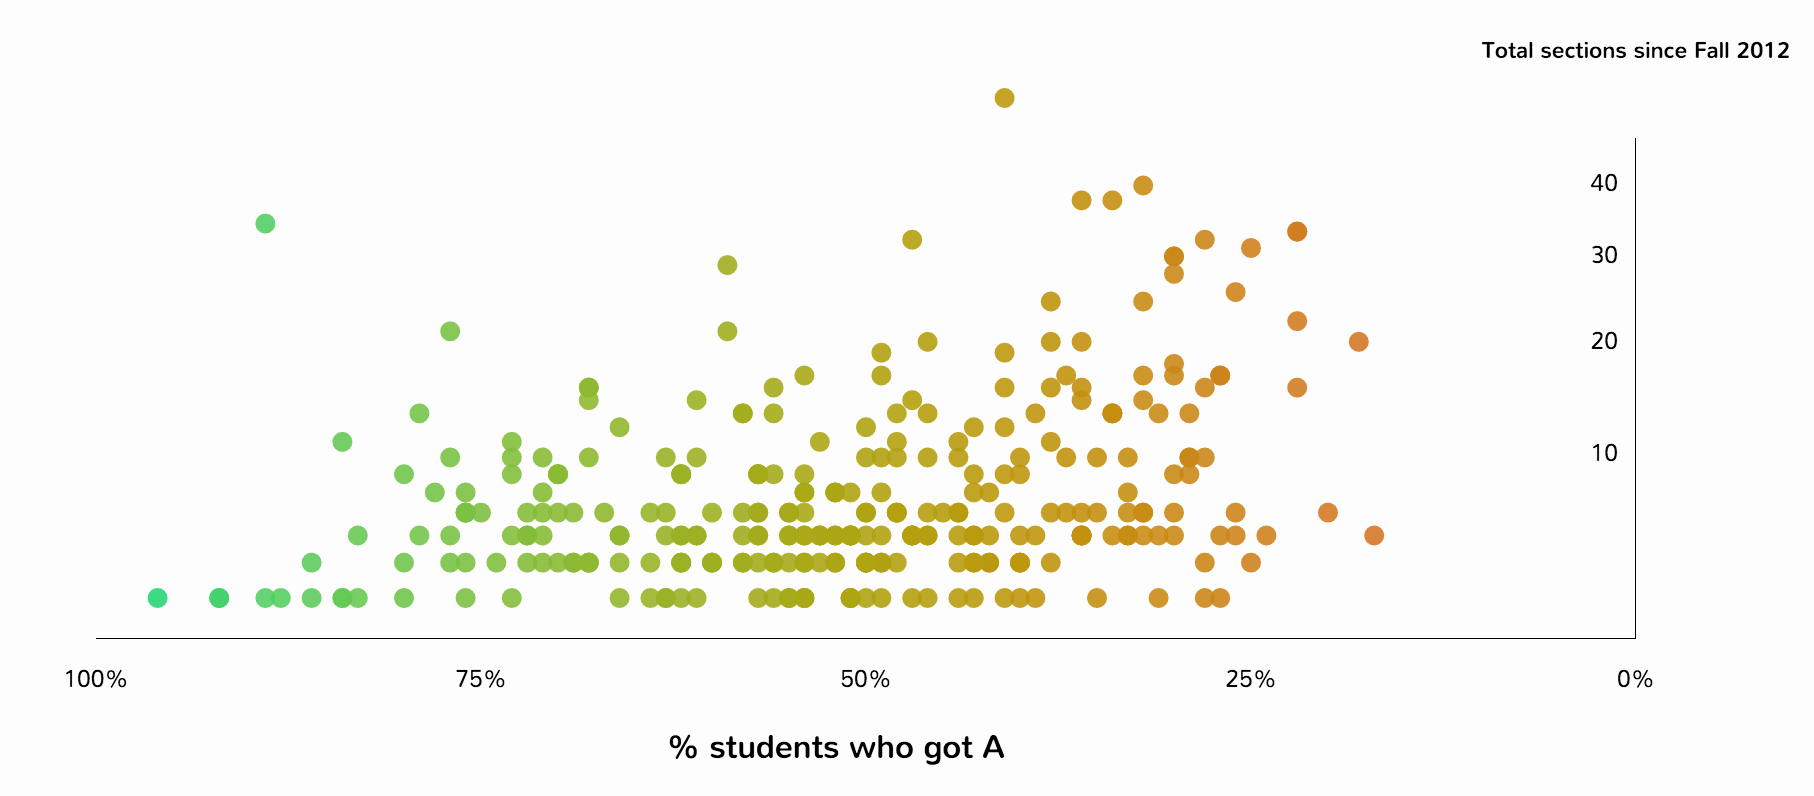
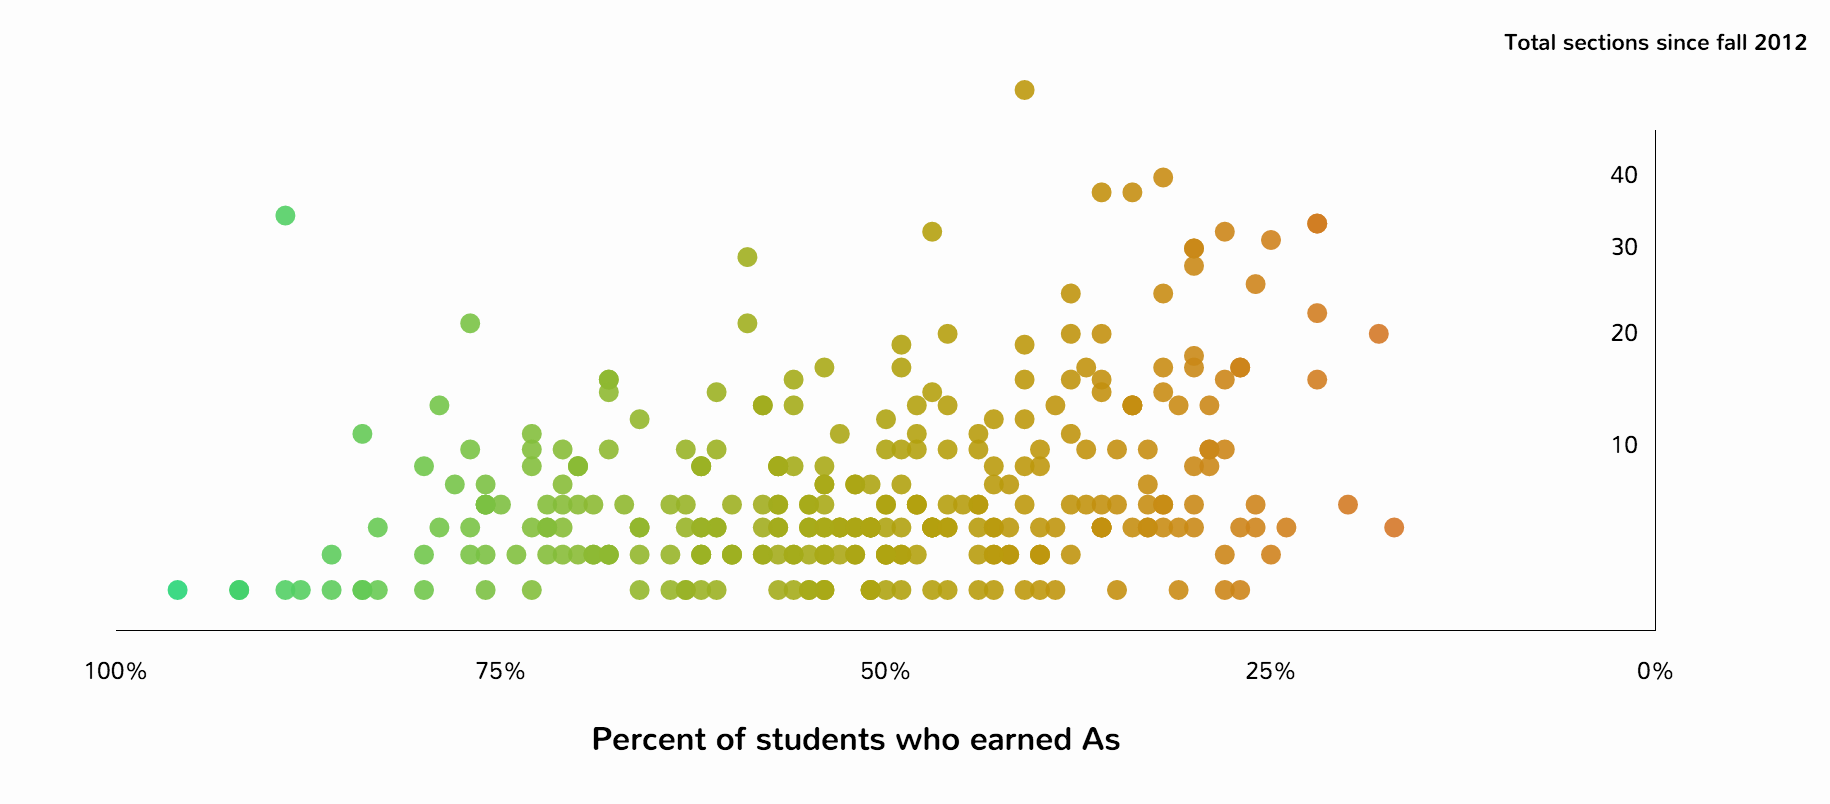
Added Michelle's suggested edits; paginated tables

diff --git a/js/posts/grades-ge/highchart-bar.js b/js/posts/grades-ge/highchart-bar.js
@@ -9,13 +9,13 @@ $(function () {
 
       xAxis: {
           categories: [
-              "Visual and Performance Arts",
-              "Literary and Cultural",
+              "Visual and performance Arts",
+              "Literary and cultural",
               "Historical",
               "Social",
-              "Philosophical and Linguistic",
-              "Life Sciences",
-              "Physical Sciences" ]
+              "Philosophical and linguistic",
+              "Life sciences",
+              "Physical sciences" ]
       },
       yAxis: {
           min: 0,

diff --git a/js/posts/grades-ge/d3-scatter.js b/js/posts/grades-ge/d3-scatter.js
@@ -102,13 +102,13 @@ function chart(allGrades) {
       .attr("text-anchor", "middle")
       .attr("transform", "translate(800, 150)")
       .attr("class", "labelsY")
-      .text("Total sections since Fall 2012");
+      .text("Total sections since fall 2012");
 
   d3.select("svg#chart").append("text")
       .attr("text-anchor", "middle")
       .attr("transform", "translate(400, 500)")
       .attr("class", "labelsX")
-      .text("Percent students who earned As");
+      .text("Percent of students who earned As");
 
 
   function pickTheme(theme) {

diff --git a/js/posts/grades-ge/DT-tables.js b/js/posts/grades-ge/DT-tables.js
@@ -10,7 +10,7 @@ $(document).ready(function() {
         "order": [[3, "asc"]],
         "scrollY":        "250px",
         "scrollCollapse": true,
-        "paging":         false
+        "paging":         true
     } );
 
     $("table#lit").DataTable( {
@@ -24,6 +24,6 @@ $(document).ready(function() {
         "order": [[3, "asc"]],
         "scrollY":        "250px",
         "scrollCollapse": true,
-        "paging":         false
+        "paging":         true
     } );
 } );

diff --git a/css/posts/grades-ge/app.css b/css/posts/grades-ge/app.css
@@ -20,10 +20,8 @@ button.selected {
   background-color: lightgrey;
 }
 
-
 circle {
   opacity: 0.9;
-  /*fill: #F39C12;*/
 }
 
 text.labelsY {
@@ -51,7 +49,6 @@ iframe#geVar {
 iframe#geAll {
   height: 540px;
 }
-
 
 blockquote.note {
   font-size: 14px;
